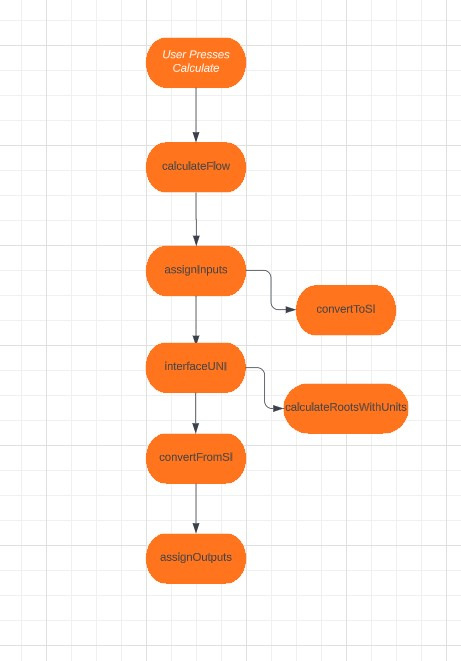
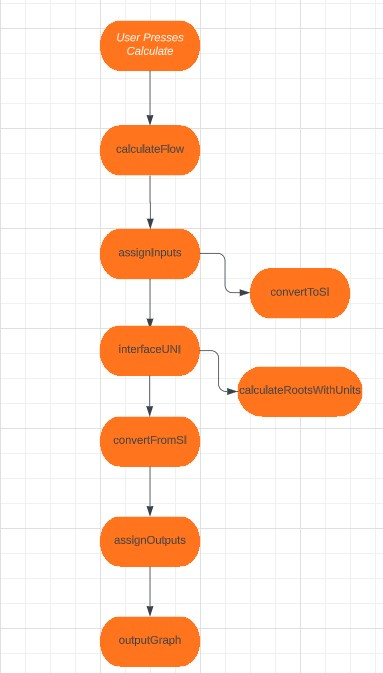
Flow chart

diff --git a/README.md b/README.md
@@ -5,9 +5,8 @@
 - [Flow Calculation](#flow-calculation)
   - [User Input](#user-input)
   - [Unit Conversion](#unit-conversion)
-  - [Interface and Calculation](#interface-and-calculation)
+  - [Interfacing with Python and JavaScript](#Interfacing-with-Python-and-JavaScript)
   - [Output Graph](#output-graph)
-- [Example Flows](#example-flows)
 - [How to Add an Input](#how-to-add-an-input)
 - [How to Add an Output](#how-to-add-an-output)
 - [Changing Python Code](#changing-python-code)
@@ -63,11 +62,7 @@ calcualteFlow
 |
 |convertToSI
 ```
-### User Input
-The javacript command `data.po1 = parseFloat(document.getElementById("Po1").value)` can grab the value stored in this element. (You would want the html input to have this id e.g. `<input type="text" id="Po1">`).
-
-
-#### python to javascript
+#### Interfacing with Python and JavaScript
 The Interface with the python code occurs in InterfaceUNI.
 JavaScript Integrates with python through:
    ```
@@ -145,6 +140,7 @@ Note:
   ```
 
 ### Output Graph
+![Flow Diagram](flow-charts/output-graph.jpg)
 
 This grabs where the charts will be located: 
   ```
@@ -228,9 +224,6 @@ The selected value is then incremented and y value updated accordingly:
       }
     }
 ```
-## Example Flows
-Provide Details about the Output Graph
-
 ## How to Add an Input
 1. add to HTML section in either inlet, parameters or outlet:
 
